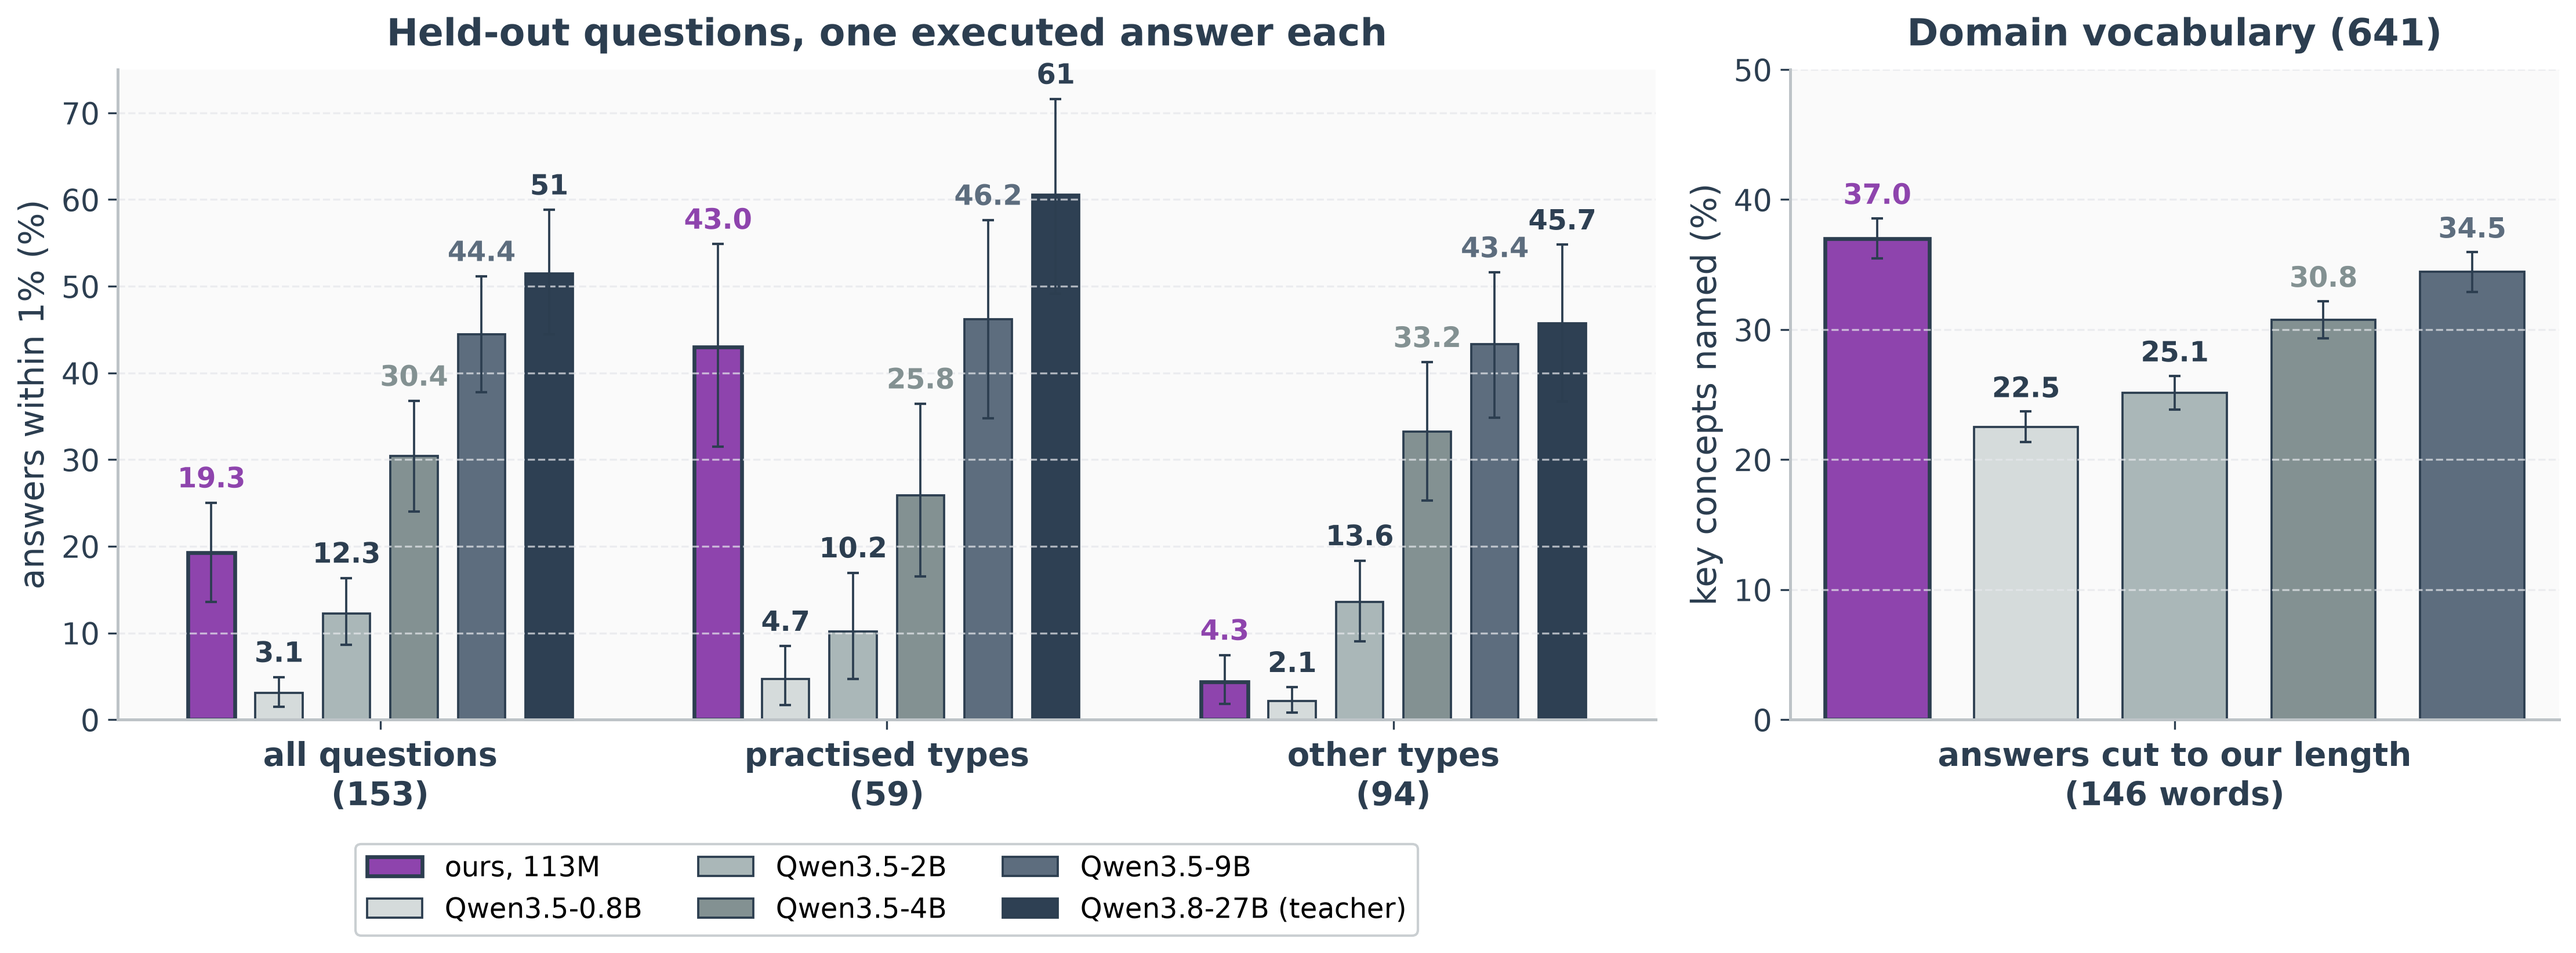
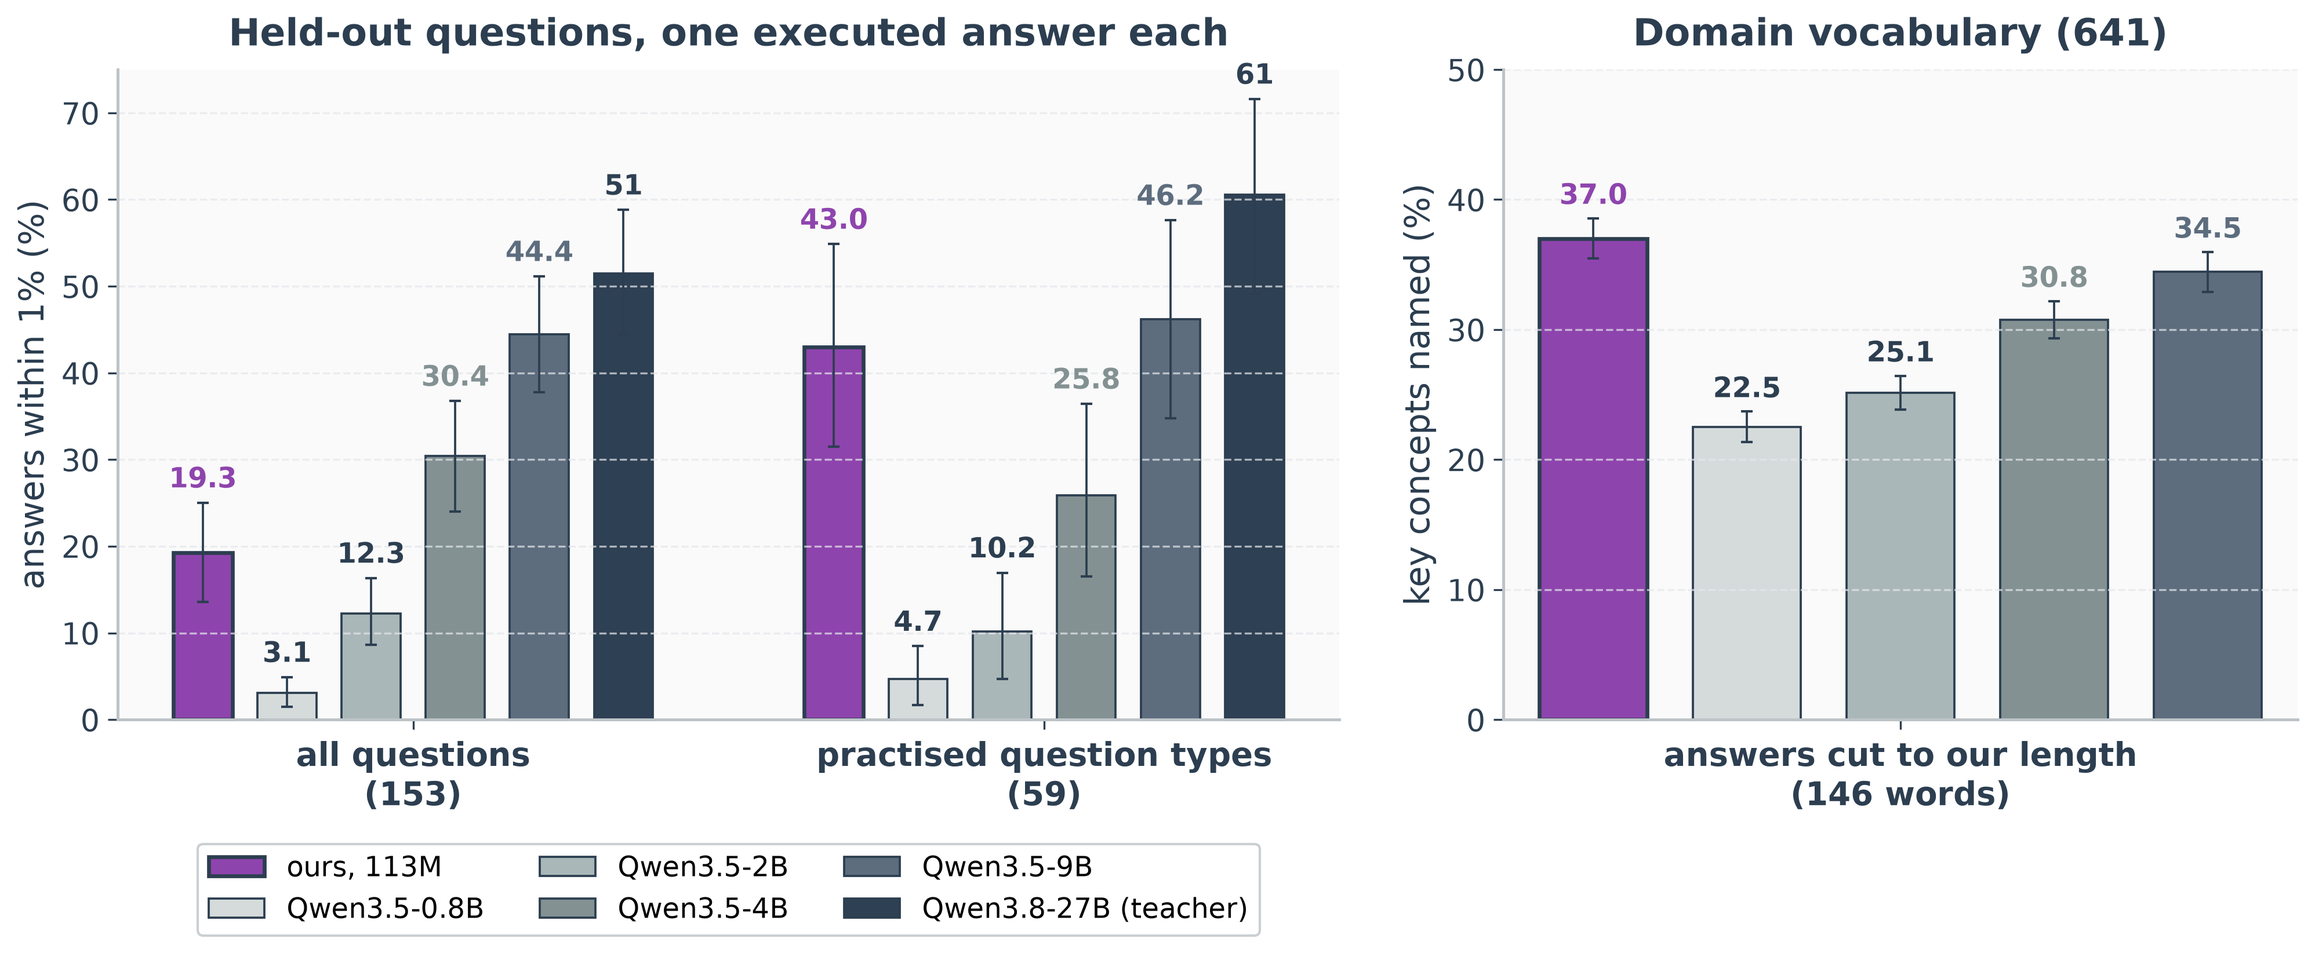
README §1.4 figure: drop the other-question-types group

diff --git a/src/plots/grpo.py b/src/plots/grpo.py
@@ -455,8 +455,8 @@ def fig_general_models():
     """The deployed 113M model against general Qwen models of every size, scored the same way (README §1.4).
 
     (a) The 153 real held-out questions: one executed answer per question, within 1% of the label (ours: its
-    executed paper-notation equations; general models: one Python program each), split into question types the
-    model has practised (nearest training problem with word-Jaccard >= 0.4) and the rest. (b) Key concepts named
+    executed paper-notation equations; general models: one Python program each), all of them and the question
+    types the model has practised (nearest training problem with word-Jaccard >= 0.4). (b) Key concepts named
     in the 641 conceptual answers when every answer is cut to the length of ours on the same prompt.
     Data: docs/eval_general_models.json (scripts/experiments/general_models_compare.py). Whiskers: 95% CIs.
     """
@@ -467,9 +467,8 @@ def fig_general_models():
     t, c = d["table"], d["concepts"]
     general = ["Qwen3.5-0.8B", "Qwen3.5-2B", "Qwen3.5-4B", "Qwen3.5-9B", "Qwen3.8-27B"]
     greys = ["#D5DBDB", "#AAB7B8", "#839192", "#5D6D7E", "#2E4053"]
-    groups = ["all", "practised types", "other question types"]
-    names = [f"all questions\n({t['all']['n']})", f"practised types\n({t['practised types']['n']})",
-             f"other types\n({t['other question types']['n']})"]
+    groups = ["all", "practised types"]
+    names = [f"all questions\n({t['all']['n']})", f"practised question types\n({t['practised types']['n']})"]
 
     def whiskers(rows):
         return [[r[0] - r[1] for r in rows], [r[2] - r[0] for r in rows]]
@@ -478,8 +477,8 @@ def fig_general_models():
     for name, col in zip(general, greys):
         rows = [t[g][name]["within1"] for g in groups]
         series.append((name + (" (teacher)" if "27B" in name else ""), col, [r[0] for r in rows], whiskers(rows), False))
-    fig, (ax, axc) = plt.subplots(1, 2, figsize=(15, 5.8), dpi=300, gridspec_kw={"width_ratios": [2.6, 1.3]})
-    _bar_groups(ax, series, [0, 1, 2], names, 1.0)
+    fig, (ax, axc) = plt.subplots(1, 2, figsize=(13.5, 5.8), dpi=300, gridspec_kw={"width_ratios": [2.0, 1.3]})
+    _bar_groups(ax, series, [0, 1], names, 1.0)
     ax.set_ylim(0, 75)
     ax.set_ylabel("answers within 1% (%)", fontsize=14.2, color=INK)
     ax.set_title("Held-out questions, one executed answer each", fontsize=15.6, fontweight="bold", pad=10, color=INK)
